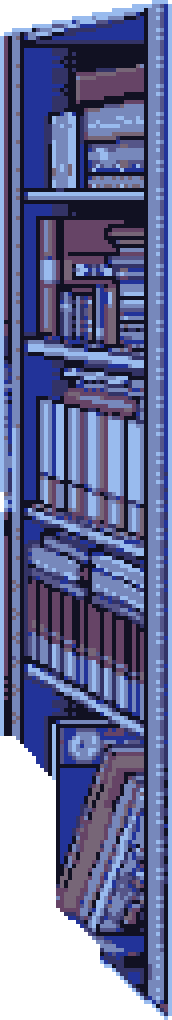
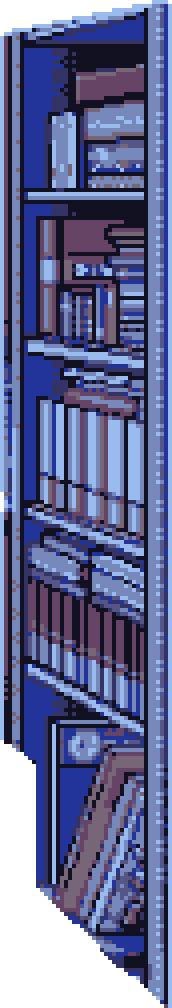
Panda's Room v3: Kitsu tapes, a Stack Overflow duck and a Bump map; the TV squared; a LOOK list that fits
Art v3 from pc98-assets (d040be0, 746a685): every added object checked against the room's vanishing points (72 ok),
the TV and the tome's page end squared to the room, the newspaper moved to the bed as a proper broadsheet, and three
new low-rank objects: anime tapes by the console (Kitsu), a rubber duck on the desk (Stack Overflow) and a city map
over the desk (Bump). Kitsu stays over MAL: its list was updated in 2022, MAL's last in 2018.

With 16 objects plus "Never mind" the LOOK list ran out of the dialog box, so it's four tight columns now, and the
arrow keys read the column count from the grid instead of assuming two.

diff --git a/js/room-data.js b/js/room-data.js
@@ -16,15 +16,15 @@
 // Keep each box <= 48 characters and use straight quotes (the pc-98 font draws curly ones full-width).
 window.ROOM = {
     scene: {
-        src: "/img/room/room@4x.png?v=4",
+        src: "/img/room/room@4x.png?v=5",
         width: 500,
         height: 357,
         // city lights: an 8-frame strip stepped like PC-98 palette cycling (the export's twinkle.json)
-        twinkle: { src: "/img/room/twinkle@4x.png?v=4", x: 191, y: 68, w: 92, h: 87, frames: 8, fps: 2 }
+        twinkle: { src: "/img/room/twinkle@4x.png?v=5", x: 191, y: 68, w: 92, h: 87, frames: 8, fps: 2 }
     },
 
-    zOrder: ["controller", "tv", "butterfly", "linkedin", "letter", "phone", "lesswrong", "plush",
-             "pc", "newspaper", "bookshelf", "poster", "window"],
+    zOrder: ["controller", "kitsu", "tv", "butterfly", "linkedin", "letter", "stackoverflow", "phone", "lesswrong",
+             "plush", "pc", "newspaper", "bookshelf", "poster", "bump", "window"],
 
     greeting: [
         "Welcome, traveler, to my room of mysteries.",
@@ -40,7 +40,7 @@ window.ROOM = {
             rank: 1,
             polygon: [[146, 60], [328, 60], [328, 162], [308, 162], [306, 164], [306, 168], [304, 169], [301, 241], [163, 241], [162, 209], [159, 206], [146, 205], [146, 61]],
             anchor: [233, 145],
-            lit: { src: "/img/room/lit/window@4x.png?v=4", x: 145, y: 59, w: 184, h: 183 },
+            lit: { src: "/img/room/lit/window@4x.png?v=5", x: 145, y: 59, w: 184, h: 183 },
             hover: "E-everything looks so p-pretty at night...",
             click: [
                 "The town, the people... we're all family.",
@@ -59,7 +59,7 @@ window.ROOM = {
             rank: 2,
             polygon: [[102, 236], [118, 239], [118, 241], [113, 245], [107, 246], [95, 244], [95, 242], [102, 237]],
             anchor: [106, 241],
-            lit: { src: "/img/room/lit/phone@4x.png?v=4", x: 94, y: 235, w: 25, h: 12 },
+            lit: { src: "/img/room/lit/phone@4x.png?v=5", x: 94, y: 235, w: 25, h: 12 },
             hit: [[90, 231], [123, 231], [123, 251], [90, 251]], // padded: the object itself is tiny
             hover: "Eh? My phone's buzzing... is that you?",
             click: [
@@ -80,7 +80,7 @@ window.ROOM = {
             rank: 3,
             polygon: [[373, 135], [421, 136], [428, 138], [428, 180], [424, 184], [431, 187], [431, 192], [390, 192], [390, 189], [387, 186], [381, 184], [386, 180], [382, 176], [375, 175], [375, 138], [373, 136]],
             anchor: [402, 161],
-            lit: { src: "/img/room/lit/pc@4x.png?v=4", x: 372, y: 134, w: 60, h: 59 },
+            lit: { src: "/img/room/lit/pc@4x.png?v=5", x: 372, y: 134, w: 60, h: 59 },
             hover: "I keep falling asleep at that computer...",
             click: [
                 "My true love has always been my computer.",
@@ -97,9 +97,9 @@ window.ROOM = {
             name: "Newspaper",
             service: "Substack",
             rank: 4,
-            polygon: [[359, 177], [380, 178], [385, 182], [384, 184], [390, 188], [390, 191], [370, 189], [359, 178]],
-            anchor: [374, 183],
-            lit: { src: "/img/room/lit/newspaper@4x.png?v=4", x: 358, y: 176, w: 32, h: 16 },
+            polygon: [[86, 246], [127, 249], [127, 251], [106, 271], [98, 271], [60, 268], [61, 264], [86, 247]],
+            anchor: [94, 258],
+            lit: { src: "/img/room/lit/newspaper@4x.png?v=5", x: 59, y: 245, w: 69, h: 27 },
             hover: "Heh. Who knew my essays could be interesting?",
             click: [
                 "I write about cities on my Substack.",
@@ -116,9 +116,9 @@ window.ROOM = {
             name: "Bookshelf",
             service: "Reading list",
             rank: 5,
-            polygon: [[468, 65], [472, 65], [472, 318], [458, 305], [456, 305], [455, 300], [444, 291], [444, 259], [434, 248], [431, 248], [431, 73], [468, 66]],
-            anchor: [452, 179],
-            lit: { src: "/img/room/lit/bookshelf@4x.png?v=4", x: 430, y: 64, w: 43, h: 255 },
+            polygon: [[468, 65], [472, 65], [472, 316], [464, 308], [459, 306], [455, 300], [439, 286], [439, 255], [431, 250], [431, 73], [468, 66]],
+            anchor: [452, 181],
+            lit: { src: "/img/room/lit/bookshelf@4x.png?v=5", x: 430, y: 64, w: 43, h: 252 },
             hover: "If it's books you want, leave it to me.",
             click: [
                 "My reading list isn't ready yet. Soon!",
@@ -136,7 +136,7 @@ window.ROOM = {
             rank: 6,
             polygon: [[162, 110], [169, 112], [171, 115], [174, 112], [181, 110], [181, 115], [178, 118], [180, 122], [178, 124], [175, 124], [173, 121], [165, 124], [163, 122], [165, 118], [162, 115], [162, 111]],
             anchor: [171, 116],
-            lit: { src: "/img/room/lit/butterfly@4x.png?v=4", x: 161, y: 109, w: 21, h: 16 },
+            lit: { src: "/img/room/lit/butterfly@4x.png?v=5", x: 161, y: 109, w: 21, h: 16 },
             hit: [[159, 107], [184, 107], [184, 127], [159, 127]], // padded, so it's easy to catch
             hover: "I love butterflies. They are the best animal.",
             click: [
@@ -154,9 +154,9 @@ window.ROOM = {
             name: "TV",
             service: "Letterboxd",
             rank: 7,
-            polygon: [[389, 238], [412, 241], [422, 247], [434, 248], [444, 259], [444, 291], [455, 300], [455, 307], [422, 307], [418, 304], [419, 302], [415, 298], [396, 300], [396, 298], [388, 290], [389, 239]],
-            anchor: [417, 274],
-            lit: { src: "/img/room/lit/tv@4x.png?v=4", x: 387, y: 237, w: 69, h: 71 },
+            polygon: [[388, 239], [404, 239], [416, 245], [426, 245], [431, 250], [436, 252], [439, 255], [439, 286], [455, 300], [455, 302], [430, 302], [428, 307], [422, 307], [418, 304], [419, 302], [415, 298], [404, 298], [403, 300], [397, 300], [388, 289], [388, 240]],
+            anchor: [414, 273],
+            lit: { src: "/img/room/lit/tv@4x.png?v=5", x: 387, y: 238, w: 69, h: 70 },
             hover: "You've found the television, then.",
             click: [
                 "Every movie I watch goes on my Letterboxd.",
@@ -175,7 +175,7 @@ window.ROOM = {
             rank: 8,
             polygon: [[349, 161], [368, 161], [368, 173], [349, 173], [349, 162]],
             anchor: [358, 166],
-            lit: { src: "/img/room/lit/letter@4x.png?v=4", x: 348, y: 160, w: 21, h: 14 },
+            lit: { src: "/img/room/lit/letter@4x.png?v=5", x: 348, y: 160, w: 21, h: 14 },
             hit: [[346, 158], [371, 158], [371, 176], [346, 176]], // padded: the object itself is small
             hover: "I wrote to my parents last week.",
             click: [
@@ -195,7 +195,7 @@ window.ROOM = {
             rank: 9,
             polygon: [[403, 298], [416, 298], [420, 305], [436, 322], [436, 332], [405, 332], [401, 326], [394, 325], [398, 321], [389, 309], [389, 300], [403, 299]],
             anchor: [403, 318],
-            lit: { src: "/img/room/lit/controller@4x.png?v=4", x: 339, y: 297, w: 98, h: 45 },
+            lit: { src: "/img/room/lit/controller@4x.png?v=5", x: 339, y: 297, w: 98, h: 45 },
             hit: [[338, 335], [342, 331], [389, 298], [403, 296], [416, 296], [418, 298], [435, 318], [438, 322], [438, 332], [436, 334], [360, 343], [342, 343], [338, 339]], // console, cartridge and pad
             hover: "Eh? Just playing some Cities: Skylines.",
             click: [
@@ -216,7 +216,7 @@ window.ROOM = {
             rank: 10,
             polygon: [[63, 233], [88, 235], [88, 243], [70, 255], [63, 256], [54, 254], [51, 257], [47, 253], [42, 253], [42, 245], [63, 234]],
             anchor: [64, 244],
-            lit: { src: "/img/room/lit/lesswrong@4x.png?v=4", x: 41, y: 232, w: 48, h: 27 },
+            lit: { src: "/img/room/lit/lesswrong@4x.png?v=5", x: 41, y: 232, w: 48, h: 27 },
             hover: "Ah, now I started thinking again. This is bad.",
             click: [
                 "My nerdier essays go up on LessWrong.",
@@ -235,7 +235,7 @@ window.ROOM = {
             rank: 11,
             polygon: [[317, 160], [320, 161], [319, 163], [321, 165], [329, 169], [330, 201], [329, 204], [324, 203], [316, 196], [307, 204], [304, 204], [303, 202], [304, 169], [317, 161]],
             anchor: [316, 183],
-            lit: { src: "/img/room/lit/linkedin@4x.png?v=4", x: 302, y: 159, w: 29, h: 46 },
+            lit: { src: "/img/room/lit/linkedin@4x.png?v=5", x: 302, y: 159, w: 29, h: 46 },
             hover: "Is it hard, being an adult?",
             click: [
                 "I wear it to interviews. And on LinkedIn.",
@@ -244,6 +244,66 @@ window.ROOM = {
             repeat: ["Thank you for your hard work today."],
             choices: [
                 { label: "Visit LinkedIn", href: "https://www.linkedin.com/in/smithdevio/" },
+                { label: "Look at something else" }
+            ]
+        },
+        {
+            id: "kitsu",
+            name: "Anime tapes",
+            service: "Kitsu",
+            rank: 12,
+            polygon: [[428, 302], [456, 302], [481, 324], [481, 328], [478, 328], [476, 331], [445, 331], [431, 315], [431, 309], [428, 307], [428, 303]],
+            anchor: [453, 316],
+            lit: { src: "/img/room/lit/kitsu@4x.png?v=5", x: 427, y: 301, w: 55, h: 31 },
+            hover: "Gaze upon my anime tapes and despair!",
+            click: [
+                "Kitsu says I've watched 93 days of anime.",
+                "...And I stopped logging in 2022. Oops."
+            ],
+            repeat: ["Holy moly! Anime is so extreme these days"],
+            choices: [
+                // verified 2026-10-06: last list update 2022-07-10, 544 entries, lifeSpentOnAnime 134017 min (~93 days);
+                // more current than MAL (myanimelist.net/profile/VivaLaPanda: last list update 2018-05-17)
+                { label: "Visit Kitsu", href: "https://kitsu.io/users/VivaLaPanda" },
+                { label: "Look at something else" }
+            ]
+        },
+        {
+            id: "stackoverflow",
+            name: "Rubber duck",
+            service: "Stack Overflow",
+            rank: 13,
+            polygon: [[374, 177], [378, 177], [381, 180], [381, 185], [379, 187], [370, 187], [368, 185], [368, 181], [371, 183], [374, 178]],
+            anchor: [375, 182],
+            lit: { src: "/img/room/lit/stackoverflow@4x.png?v=5", x: 367, y: 176, w: 15, h: 12 },
+            hit: [[366, 175], [383, 175], [383, 189], [366, 189]], // padded: the duck is tiny
+            hover: "You think rubber ducks are creepy?",
+            click: [
+                "I asked the duck for an answer. It was no use.",
+                "So I took my question to Stack Overflow."
+            ],
+            repeat: ["That's a good question. ...Closed as duplicate."],
+            choices: [
+                { label: "Visit Stack Overflow", href: "https://stackoverflow.com/users/4951118/adrian-smith" },
+                { label: "Look at something else" }
+            ]
+        },
+        {
+            id: "bump",
+            name: "City map",
+            service: "Bump",
+            rank: 14,
+            polygon: [[346, 23], [382, 23], [382, 47], [346, 47], [346, 24]],
+            anchor: [363, 34],
+            lit: { src: "/img/room/lit/bump@4x.png?v=5", x: 345, y: 22, w: 38, h: 26 },
+            hover: "I'm not lost. I just don't know where I am.",
+            click: [
+                "On Bump, my friends are pins on a map.",
+                "I can tell where you went without a GPS."
+            ],
+            repeat: ["I've got to go meet up with a friend of mine."],
+            choices: [
+                { label: "Add me on Bump", href: "https://bump.app/p/pAIOBwqINtUQR" },
                 { label: "Look at something else" }
             ]
         }
@@ -256,7 +316,7 @@ window.ROOM = {
             name: "Panda plush",
             polygon: [[38, 167], [43, 168], [45, 171], [54, 171], [58, 167], [63, 168], [64, 173], [62, 178], [64, 180], [64, 185], [59, 193], [65, 198], [65, 203], [60, 207], [61, 210], [59, 212], [55, 211], [54, 213], [45, 213], [44, 211], [40, 212], [38, 210], [39, 207], [34, 203], [34, 198], [40, 193], [35, 185], [35, 180], [37, 178], [35, 170], [38, 168]],
             anchor: [49, 190],
-            lit: { src: "/img/room/lit/plush@4x.png?v=4", x: 33, y: 166, w: 33, h: 48 },
+            lit: { src: "/img/room/lit/plush@4x.png?v=5", x: 33, y: 166, w: 33, h: 48 },
             hover: "The panda says, 'Gao, gao!'",
             lines: [
                 "He's the original Panda. I'm the sequel.",
@@ -268,7 +328,7 @@ window.ROOM = {
             name: "Poster",
             polygon: [[64, 67], [131, 67], [131, 150], [64, 150], [64, 68]],
             anchor: [97, 108],
-            lit: { src: "/img/room/lit/poster@4x.png?v=4", x: 63, y: 66, w: 69, h: 85 },
+            lit: { src: "/img/room/lit/poster@4x.png?v=5", x: 63, y: 66, w: 69, h: 85 },
             hover: "Cuteness wins in the end. Cuteness is justice!",
             lines: [
                 "That's my favorite magical girl!",

diff --git a/css/room.css b/css/room.css
@@ -161,11 +161,12 @@
     margin-left: 18px;
 }
 
+/* the LOOK list: every object plus "Never mind" has to fit the 252px box, so four tight columns */
 #room-choices.room-choices-grid {
     display: grid;
-    grid-template-columns: repeat(2, minmax(220px, 1fr));
-    column-gap: 30px;
-    row-gap: 2px;
+    grid-template-columns: repeat(4, max-content);
+    column-gap: 14px;
+    row-gap: 0;
 }
 
 /* #room-choices for specificity: style.css's `.subwindow a` would stretch link choices to 80% */
@@ -185,7 +186,8 @@
 }
 
 #room-choices.room-choices-grid .room-choice {
-    font-size: 22px;
+    font-size: 20px;
+    line-height: 1.15;
 }
 
 #room-choices .room-choice.dim {

diff --git a/js/room.js b/js/room.js
@@ -307,7 +307,8 @@
     function choiceKey(e) {
         var items = Array.from(choicesEl.children);
         var i = items.indexOf(e.currentTarget);
-        var cols = choicesEl.classList.contains("room-choices-grid") ? 2 : 1;
+        var cols = choicesEl.classList.contains("room-choices-grid")
+            ? getComputedStyle(choicesEl).gridTemplateColumns.split(" ").length : 1;
         var to = null;
         if (e.key === "ArrowDown") to = i + cols;
         else if (e.key === "ArrowUp") to = i - cols;
